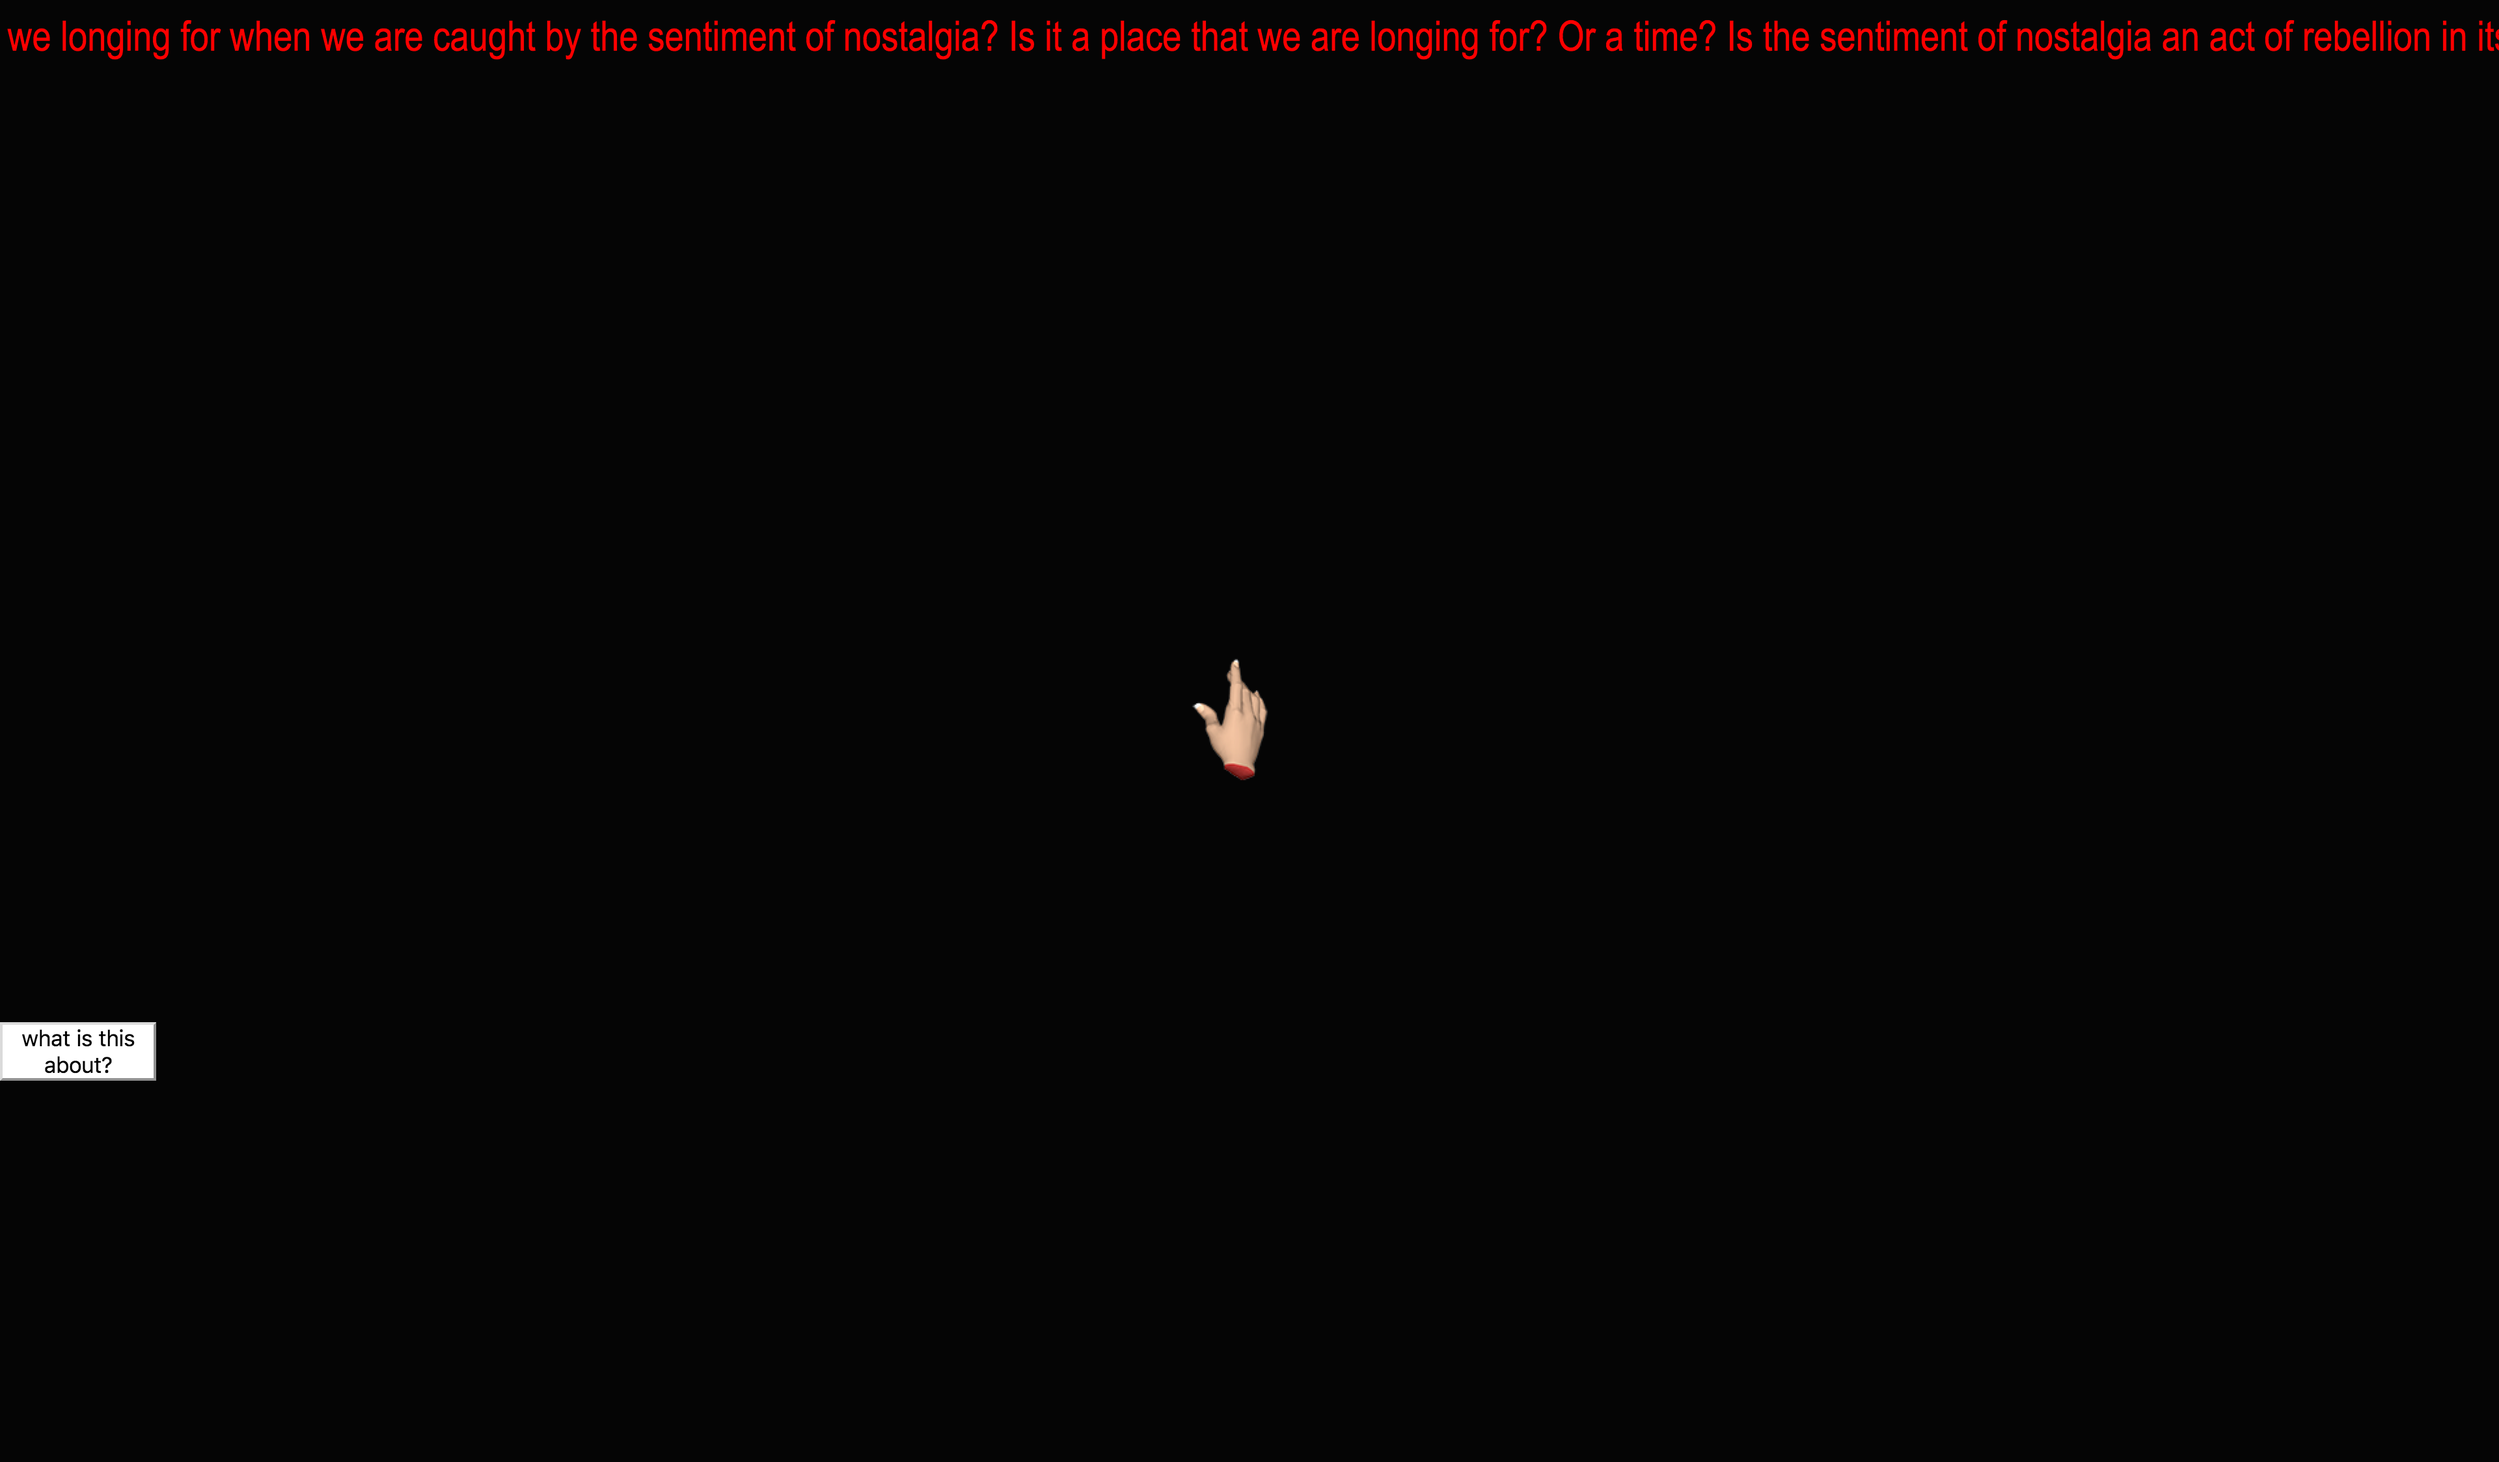
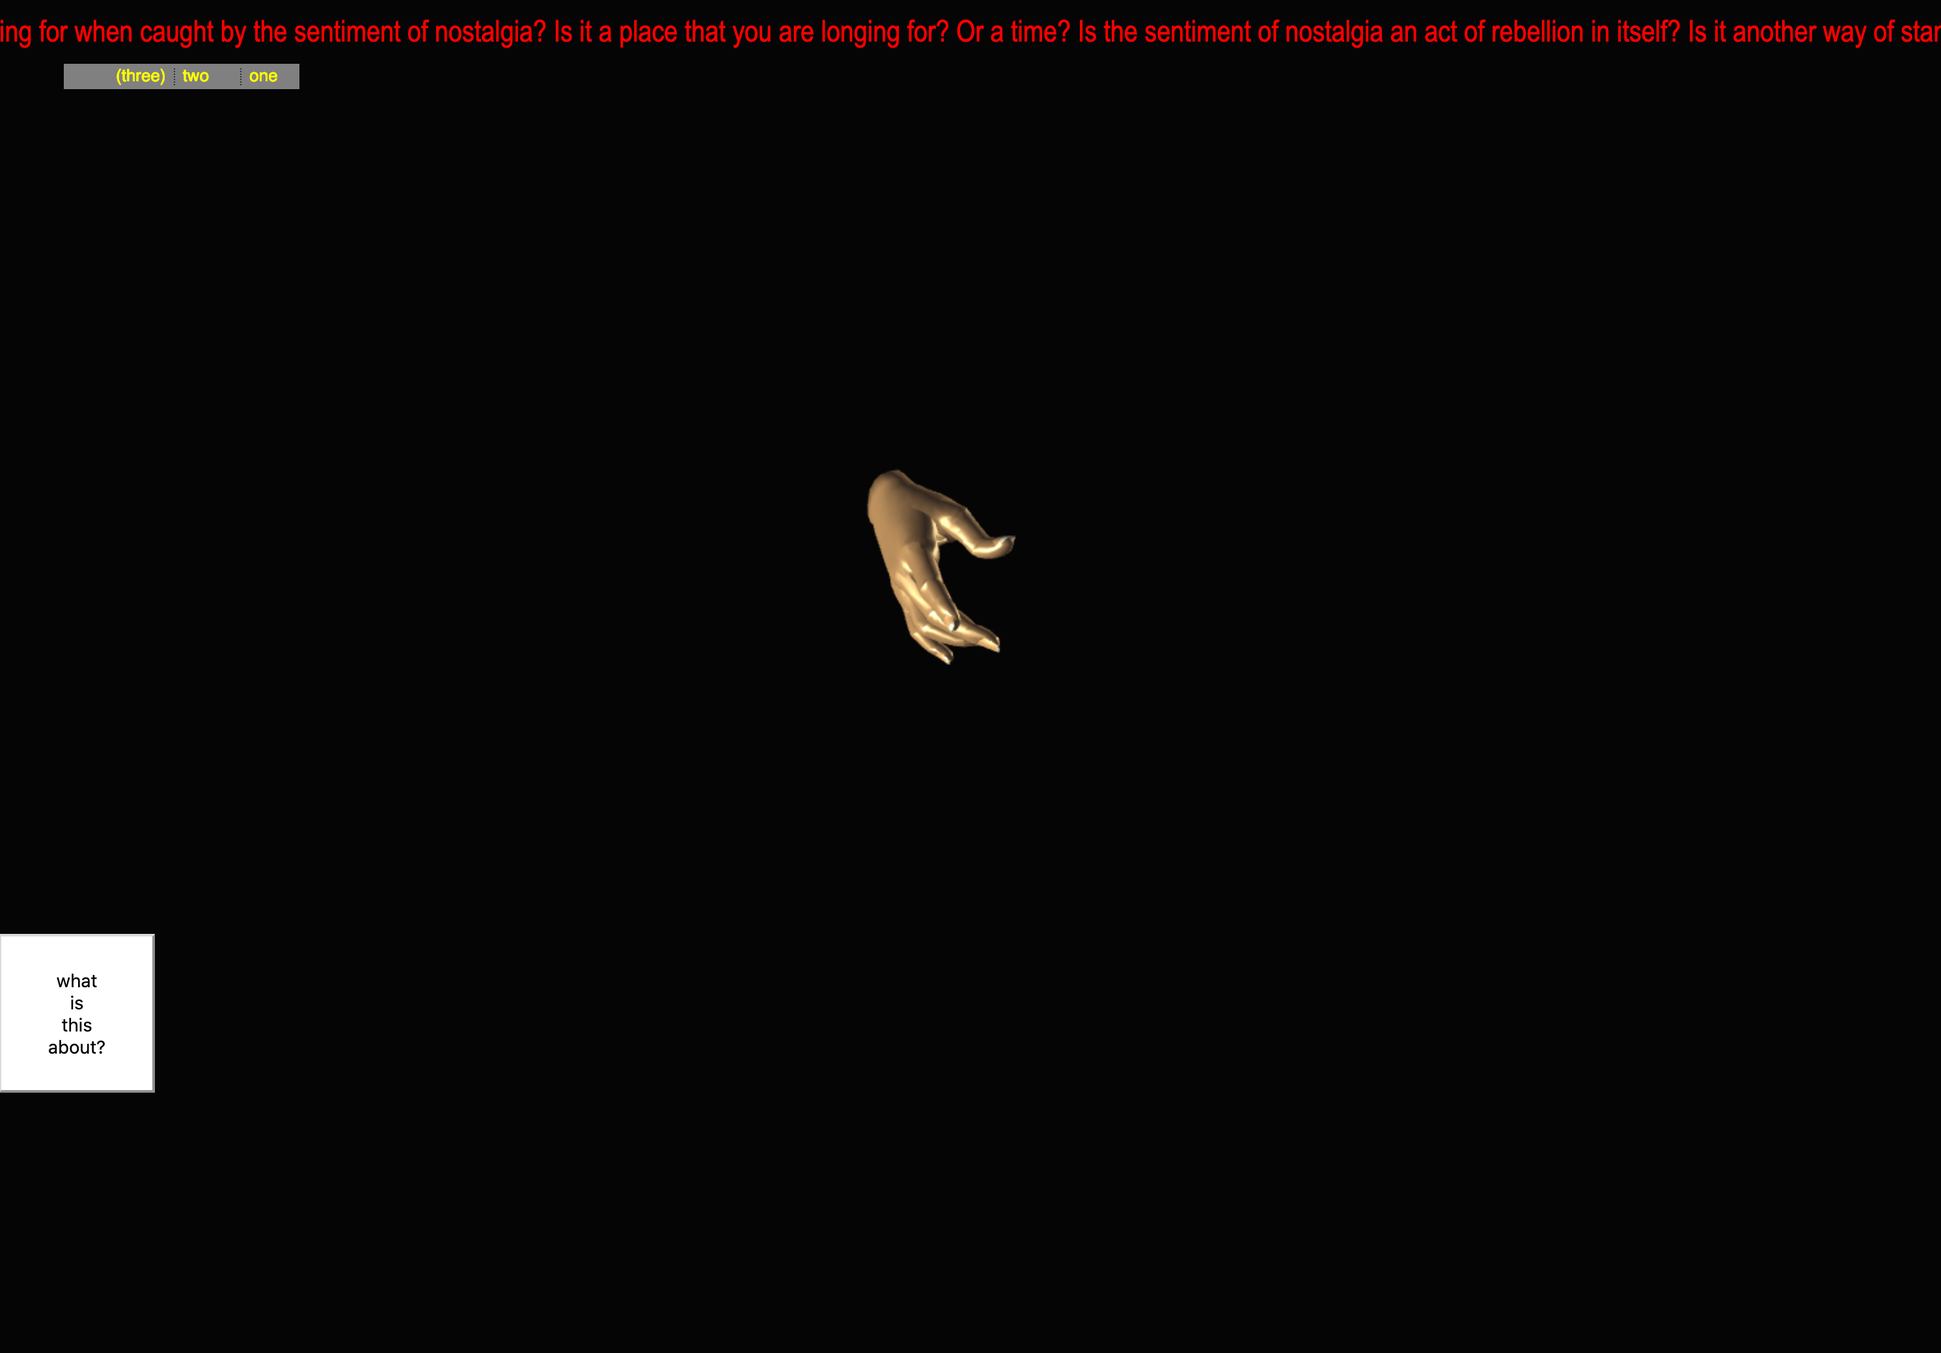
ppp

Changed region(s): [[0.0, 0.0, 1.0, 0.0924], [0.0, 0.6772, 0.0936, 0.8312], [0.4366, 0.3386, 0.5302, 0.5233]]

diff --git a/future/index.html b/future/index.html
@@ -83,7 +83,26 @@
   white-space: nowrap;
   overflow: hidden;
   box-sizing: border-box;
+
 }
+
+ul {
+	font-family: helvetica;
+	font-size: 13px;
+	padding-top: 3px;
+	padding-bottom: 3px;
+	background-color: gray;
+	position: absolute;
+	top: 68px;
+	left: 50px;
+	margin: 0 auto;
+    color: yellow;
+    column-count: 3;
+    column-rule: dotted 1px #333;
+    list-style-type: none;
+    z-index: 1000;
+}
+
 
 .marquee span {
   display: inline-block;
@@ -199,6 +218,131 @@
     to { opacity: 1.0; }
 }
 
+
+/*.ruler {
+ position: absolute;
+ width: 100%;*/
+/* margin: 20px auto;*/
+/* height: 14px;
+}
+.ruler .cm,
+.ruler .mm {
+ position: absolute;
+ border-left: 1px solid #555;
+ height: 14px;
+ width: 10%;
+}
+.ruler .cm:after {
+ position: absolute;
+ bottom: -15px;
+ font: 11px/1 sans-serif;
+}
+.ruler .mm {
+ height: 5px;
+}
+.ruler .mm:nth-of-type(5) {
+ height: 10px;
+}
+.ruler .cm:nth-of-type(1) {
+ left: 0%;
+}
+.ruler .cm:nth-of-type(1):after {
+ content: "0";
+}
+.ruler .cm:nth-of-type(2) {
+ left: 10%;
+}
+.ruler .cm:nth-of-type(2):after {
+ content: "1";
+}
+.ruler .cm:nth-of-type(3) {
+ left: 20%;
+}
+.ruler .cm:nth-of-type(3):after {
+ content: "2";
+}
+.ruler .cm:nth-of-type(4) {
+ left: 30%;
+}
+.ruler .cm:nth-of-type(4):after {
+ content: "3";
+}
+.ruler .cm:nth-of-type(5) {
+ left: 40%;
+}
+.ruler .cm:nth-of-type(5):after {
+ content: "4";
+}
+.ruler .cm:nth-of-type(6) {
+ left: 50%;
+}
+.ruler .cm:nth-of-type(6):after {
+ content: "5";
+}
+.ruler .cm:nth-of-type(7) {
+ left: 60%;
+}
+.ruler .cm:nth-of-type(7):after {
+ content: "6";
+}
+.ruler .cm:nth-of-type(8) {
+ left: 70%;
+}
+.ruler .cm:nth-of-type(8):after {
+ content: "7";
+}
+.ruler .cm:nth-of-type(9) {
+ left: 80%;
+}
+.ruler .cm:nth-of-type(9):after {
+ content: "8";
+}
+.ruler .cm:nth-of-type(10) {
+ left: 90%;
+}
+.ruler .cm:nth-of-type(10):after {
+ content: "9";
+}
+.ruler .cm:nth-of-type(11) {
+ left: 100%;
+}
+.ruler .cm:nth-of-type(11):after {
+ content: "10";
+}
+.ruler .mm:nth-of-type(1) {
+ left: 10%;
+}
+.ruler .mm:nth-of-type(2) {
+ left: 20%;
+}
+.ruler .mm:nth-of-type(3) {
+ left: 30%;
+}
+.ruler .mm:nth-of-type(4) {
+ left: 40%;
+}
+.ruler .mm:nth-of-type(5) {
+ left: 50%;
+}
+.ruler .mm:nth-of-type(6) {
+ left: 60%;
+}
+.ruler .mm:nth-of-type(7) {
+ left: 70%;
+}
+.ruler .mm:nth-of-type(8) {
+ left: 80%;
+}
+.ruler .mm:nth-of-type(9) {
+ left: 90%;
+}
+.ruler .mm:nth-of-type(10) {
+ left: 100%;
+}
+#mentionme{  
+  text-align:center;
+  margin-top:10%;
+}*/
 
 			#example {
 				width: 100%;
@@ -319,7 +463,13 @@
     			}
     				}
 
-
+table, th, td {
+  border: 1px solid white;
+  background-color: white;
+  z-index: 10000;
+  position: absolute;
+/*  background-color: #e5eecc;*/
+}
 
 /*::-webkit-scrollbar {
     width: 12px;
@@ -352,6 +502,124 @@
 
 		<div class="marquee">
 
+
+      	<!-- <div class='ruler'>
+ <div class='cm'>
+ <div class='mm'></div>
+ <div class='mm'></div>
+ <div class='mm'></div>
+ <div class='mm'></div>
+ <div class='mm'></div>
+ <div class='mm'></div>
+ <div class='mm'></div>
+ <div class='mm'></div>
+ <div class='mm'></div>
+ </div>
+ <div class='cm'>
+ <div class='mm'></div>
+ <div class='mm'></div>
+ <div class='mm'></div>
+ <div class='mm'></div>
+ <div class='mm'></div>
+ <div class='mm'></div>
+ <div class='mm'></div>
+ <div class='mm'></div>
+ <div class='mm'></div>
+ </div>
+ <div class='cm'>
+ <div class='mm'></div>
+ <div class='mm'></div>
+ <div class='mm'></div>
+ <div class='mm'></div>
+ <div class='mm'></div>
+ <div class='mm'></div>
+ <div class='mm'></div>
+ <div class='mm'></div>
+ <div class='mm'></div>
+ </div>
+ <div class='cm'>
+ <div class='mm'></div>
+ <div class='mm'></div>
+ <div class='mm'></div>
+ <div class='mm'></div>
+ <div class='mm'></div>
+ <div class='mm'></div>
+ <div class='mm'></div>
+ <div class='mm'></div>
+ <div class='mm'></div>
+ </div>
+ <div class='cm'>
+ <div class='mm'></div>
+ <div class='mm'></div>
+ <div class='mm'></div>
+ <div class='mm'></div>
+ <div class='mm'></div>
+ <div class='mm'></div>
+ <div class='mm'></div>
+ <div class='mm'></div>
+ <div class='mm'></div>
+ </div>
+ <div class='cm'>
+ <div class='mm'></div>
+ <div class='mm'></div>
+ <div class='mm'></div>
+ <div class='mm'></div>
+ <div class='mm'></div>
+ <div class='mm'></div>
+ <div class='mm'></div>
+ <div class='mm'></div>
+ <div class='mm'></div>
+ </div>
+ <div class='cm'>
+ <div class='mm'></div>
+ <div class='mm'></div>
+ <div class='mm'></div>
+ <div class='mm'></div>
+ <div class='mm'></div>
+ <div class='mm'></div>
+ <div class='mm'></div>
+ <div class='mm'></div>
+ <div class='mm'></div>
+ </div>
+ <div class='cm'>
+ <div class='mm'></div>
+ <div class='mm'></div>
+ <div class='mm'></div>
+ <div class='mm'></div>
+ <div class='mm'></div>
+ <div class='mm'></div>
+ <div class='mm'></div>
+ <div class='mm'></div>
+ <div class='mm'></div>
+ </div>
+ <div class='cm'>
+ <div class='mm'></div>
+ <div class='mm'></div>
+ <div class='mm'></div>
+ <div class='mm'></div>
+ <div class='mm'></div>
+ <div class='mm'></div>
+ <div class='mm'></div>
+ <div class='mm'></div>
+ <div class='mm'></div>
+ </div>
+ <div class='cm'>
+ <div class='mm'></div>
+ <div class='mm'></div>
+ <div class='mm'></div>
+ <div class='mm'></div>
+ <div class='mm'></div>
+ <div class='mm'></div>
+ <div class='mm'></div>
+ <div class='mm'></div>
+ <div class='mm'></div>
+ </div>
+ <div class='cm'></div>
+</div> -->
+<!-- <div id="mentionme">
+  by <a href="https://www.linkedin.com/in/artur-arsalanov-ab3a6895" target="_blank" title="Find me in  LinkedIn!">ArturArsalanov</a>
+</div> -->
+
 <!-- <marquee direction="left" onmouseover="this.stop();" onmouseout="this.start();" style="transform: translate3d(0,0,0)"> -->
 
 	<span>
@@ -359,6 +627,14 @@ What are you longing for when caught by the sentiment of nostalgia? Is it a plac
 </marquee>
 
 		</div>
+
+
+
+<ul>
+  <li>(three)</li>
+  <li>two</li>
+  <li>one</li>
+</ul>
 
 
 			<div class="blink"></div>
@@ -379,7 +655,7 @@ What are you longing for when caught by the sentiment of nostalgia? Is it a plac
 
 		<div class="aboutsection">
 
-			<div id="abouttext">Keywords: Cyberspace, collective memory, imaginaire, phantasmagoria, ruins, mourning, non-return, escapism. <br>Past, present, past is a live performance and an interactive space installation to which is added this website. It is a sonic and tactile short journey into the spectrum of the dreamed of, the wished for and the longed for. </br></div>
+			<div id="abouttext"><!-- Keywords: Cyberspace, collective memory, imaginaire, phantasmagoria, ruins, mourning, non-return, escapism. <br> -->Past, present, past is a live performance and an interactive space installation to which is added this website. It is a sonic and tactile short journey into the spectrum of the dreamed of, the wished for and the longed for. </br></div>
 			
 <div class="truc">
 
@@ -445,6 +721,9 @@ Tracklist:
 <br>15. Robert Ashley – In Sara, Mencken, Christ and Beethoven there were men and women
 </div>
 </div>
+
+
+
 
 <!-- <div id="links">
 Blibliography

diff --git a/pastpresentpast.html b/pastpresentpast.html
@@ -72,7 +72,6 @@
   <img id="ppp3" src="images/ppp3.png"/>
   <img id="ppp4" src="images/ppp4.png"/>
   <img id="ppp5" src="images/ppp5.png"/>
-  <img id="ppp6" src="images/ppp6.png"/>
 
 
 </div>
